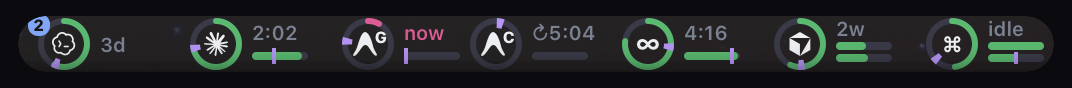
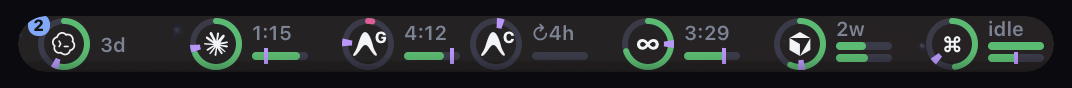
fix(sketchybar): ring review fixes for blocked, stale and docs
- Refill label uses the short form (↻14h) so it fits the 28 pt slot;
  an unreadable blocker reset still marks the label (↻?).
- Windows past the two-bar cap still block the shown bars.
- The missing-mtime sentinel never becomes a stale popup age.
- The refill note stays when an incident is present; fallback slot
  names read 'the Secondary window'.
- Docs: red low quota versus red error, error precedence over stale,
  shared warn colour, ring palette map; CHANGELOG as bullets.

diff --git a/crates/showy-quota-zellij-core/src/sketchybar_ring.rs b/crates/showy-quota-zellij-core/src/sketchybar_ring.rs
@@ -15,6 +15,7 @@
 use serde_json::Value;
 use std::collections::HashMap;
 
+use crate::cache::MISSING_AGE_SECONDS;
 use crate::codexbar::{
     is_errored, is_renderable, valid_provider_id, ProviderRecord, MAX_USAGE_JSON_BYTES,
 };
@@ -303,14 +304,16 @@ fn family_unit(
             .then_with(|| a.cmp(&b))
     });
     let ring_minutes = ring_index.and_then(|index| raws.get(index).and_then(|raw| raw.minutes));
-    let mut bars: Vec<RingWindow> = order
+    // Every shorter window, before the two-bar display cap: a window the
+    // strip cannot show (Antigravity can carry more) still blocks the ones
+    // it can.
+    let mut all_bars: Vec<RingWindow> = order
         .into_iter()
         .filter(|index| Some(*index) != ring_index)
         .map(|index| {
             let breakdown = raws[index].minutes == ring_minutes;
             assemble(&raws[index], breakdown, tick)
         })
-        .take(2)
         .collect();
     // A lone window draws the ring only; a missing window draws nothing.
     let ring = match ring_index.and_then(|index| raws.get(index)) {
@@ -332,53 +335,67 @@ fn family_unit(
     // shortest first) is empty. Breakdown parts neither block nor dim: they
     // are the ring's own window. Stale data never claims a blocked state.
     if !tick.stale {
-        for index in 0..bars.len() {
-            if bars[index].breakdown {
+        for index in 0..all_bars.len() {
+            if all_bars[index].breakdown {
                 continue;
             }
-            let blocked = ring_empty || bars[index + 1..].iter().any(blocks);
+            let blocked = ring_empty || all_bars[index + 1..].iter().any(blocks);
             if blocked {
-                bars[index].blocked = true;
-                bars[index].expected = None;
+                all_bars[index].blocked = true;
+                all_bars[index].expected = None;
             }
         }
     }
     // The label counts to the shortest window. When that window is blocked,
     // it counts to the latest refill among the windows that block it, marked
-    // with the refill glyph so the change of meaning is visible.
-    let shortest = bars.first().unwrap_or(&ring);
-    let blocker = if shortest.blocked {
-        std::iter::once(&ring)
+    // with the refill glyph so the change of meaning is visible. The refill
+    // uses the short form (`18h`, `6d`) so it fits the label slot; the popup
+    // keeps the exact time. A blocker whose reset does not parse still marks
+    // the label (`↻?`): falling back to the blocked window's own countdown
+    // would read as "usable then".
+    let shortest = all_bars.first().unwrap_or(&ring);
+    let refill: Option<(&RingWindow, Option<i64>)> = if shortest.blocked {
+        let blockers: Vec<&RingWindow> = std::iter::once(&ring)
             .filter(|_| ring_empty)
-            .chain(bars[1..].iter().filter(|bar| blocks(bar)))
+            .chain(all_bars[1..].iter().filter(|bar| blocks(bar)))
+            .collect();
+        blockers
+            .iter()
             .filter_map(|window| {
-                minutes_until(&window.reset, tick.now_epoch, tick.tz).map(|m| (m, window))
+                minutes_until(&window.reset, tick.now_epoch, tick.tz).map(|m| (*window, Some(m)))
             })
-            .max_by_key(|(minutes, _)| *minutes)
-            .map(|(_, window)| window)
+            .max_by_key(|(_, minutes)| *minutes)
+            .or_else(|| blockers.first().map(|window| (*window, None)))
     } else {
         None
     };
-    let counted = blocker.unwrap_or(shortest);
+    let (counted, countdown_text, label_minutes) = match refill {
+        Some((window, Some(minutes))) => (window, short_age(minutes * 60), Some(minutes)),
+        Some((window, None)) => (window, "?".to_owned(), None),
+        None => {
+            let (text, minutes) = countdown(shortest, tick.now_epoch, tick.tz);
+            (shortest, text, minutes)
+        }
+    };
     let shortest_title = counted.title.clone();
     let shortest_remaining = counted.remaining;
-    let (countdown_text, label_minutes) = countdown(counted, tick.now_epoch, tick.tz);
-    let refill = if blocker.is_some() { REFILL_GLYPH } else { "" };
+    let refill_glyph = if refill.is_some() { REFILL_GLYPH } else { "" };
     let label = if tick.stale_mark {
         format!("{}{countdown_text}", config.stale_glyph)
     } else if config.severity_glyphs && !tick.stale {
         format!(
-            "{}{refill}{countdown_text}",
+            "{}{refill_glyph}{countdown_text}",
             config.severity(shortest_remaining as i32).marker()
         )
     } else {
-        format!("{refill}{countdown_text}")
+        format!("{refill_glyph}{countdown_text}")
     };
+    let bars: Vec<RingWindow> = all_bars.iter().take(2).cloned().collect();
     let note = unit_note(
         &countdown_text,
         &shortest_title,
         ring_empty,
-        blocker.is_some(),
+        refill.is_some(),
         bars.iter().any(|bar| bar.blocked),
         bars.is_empty(),
     );
@@ -450,7 +467,8 @@ pub fn apply_stale_ages(
         } else {
             whole_age
         };
-        let Some(age) = age.filter(|age| *age >= 0) else {
+        // The sentinel means "no readable mtime": there is no age to report.
+        let Some(age) = age.filter(|age| (0..MISSING_AGE_SECONDS).contains(age)) else {
             continue;
         };
         let ago = friendly_duration(age / 60);
@@ -552,8 +570,15 @@ fn unit_note(
     // "empty ring" clause rather than joining it.
     let mut parts: Vec<String> = Vec::new();
     if refill {
+        // A fallback slot name (`Secondary`) reads like an account without
+        // the word "window".
+        let window = if matches!(counted_title, "Primary" | "Secondary" | "Tertiary") {
+            format!("the {counted_title} window")
+        } else {
+            counted_title.to_owned()
+        };
         parts.push(format!(
-            "{REFILL_GLYPH}{countdown} = until {counted_title} refills"
+            "{REFILL_GLYPH}{countdown} = until {window} refills"
         ));
     } else if ring_empty && !has_bars {
         parts.push(format!(
@@ -1046,11 +1071,11 @@ mod tests {
         // The empty pool blocks the 5h window: the label counts to the
         // refill, marked so the change of meaning shows.
         assert!(units[1].bars[0].blocked);
-        assert_eq!(units[1].label, "↻18:05");
+        assert_eq!(units[1].label, "↻18h");
         assert!(
             units[1]
                 .note
-                .contains("↻18:05 = until Claude/GPT weekly refills"),
+                .contains("↻18h = until Claude/GPT weekly refills"),
             "{}",
             units[1].note
         );
@@ -1077,7 +1102,7 @@ mod tests {
         assert!(!unit.bars[1].blocked, "the empty bar itself is not blocked");
         assert!(unit.bars[1].expected.is_some());
         // Counts to the 7d refill, not the 5h reset.
-        assert_eq!(unit.label, format!("↻{}", format_countdown(8727)));
+        assert_eq!(unit.label, "↻6d");
         assert!(unit.note.contains("dim bar = blocked"), "{}", unit.note);
     }
 
@@ -1087,7 +1112,53 @@ mod tests {
         let units = units(&commandcode(10.0, 100.0, 100.0));
         let unit = &units[0];
         assert!(unit.bars[0].blocked && unit.bars[1].blocked);
-        assert_eq!(unit.label, format!("↻{}", format_countdown(31170)));
+        assert_eq!(unit.label, "↻21d");
+    }
+
+    #[test]
+    fn a_blocker_with_no_parsable_reset_still_marks_the_label() {
+        // The 7d bar is empty but its reset is unreadable: the 5h countdown
+        // would say "usable in 2:40", which is false.
+        let payload = format!(
+            r#"[{{"provider":"commandcode","usage":{{
+                "primary":{{"usedPercent":10.0,"resetsAt":"{}","windowMinutes":300}},
+                "secondary":{{"usedPercent":100.0,"resetsAt":"soon","windowMinutes":10080}},
+                "tertiary":{{"usedPercent":40.0,"resetsAt":"{}","windowMinutes":43200}}}}}}]"#,
+            reset_at(160),
+            reset_at(31170)
+        );
+        let units = units(&payload);
+        assert!(units[0].bars[0].blocked);
+        assert_eq!(units[0].label, "↻?");
+    }
+
+    #[test]
+    fn a_window_past_the_two_bar_cap_still_blocks_the_shown_bars() {
+        // Gemini pool: 7d ring, then 5h, 1d, 2d bars; only 5h and 1d show,
+        // and the hidden 2d window is empty.
+        let payload = format!(
+            r#"[{{"provider":"antigravity","usage":{{
+                "primary":{{"usedPercent":10.0,"resetsAt":"{a}","windowMinutes":300}},
+                "extraRateWindows":[
+                    {{"id":"gemini-5h","title":"Gemini 5h","window":{{"usedPercent":10.0,"resetsAt":"{a}","windowMinutes":300}}}},
+                    {{"id":"gemini-1d","title":"Gemini 1d","window":{{"usedPercent":20.0,"resetsAt":"{b}","windowMinutes":1440}}}},
+                    {{"id":"gemini-2d","title":"Gemini 2d","window":{{"usedPercent":100.0,"resetsAt":"{c}","windowMinutes":2880}}}},
+                    {{"id":"gemini-weekly","title":"Gemini weekly","window":{{"usedPercent":30.0,"resetsAt":"{d}","windowMinutes":10080}}}}
+                ]}}}}]"#,
+            a = reset_at(160),
+            b = reset_at(900),
+            c = reset_at(2000),
+            d = reset_at(8000)
+        );
+        let units = units(&payload);
+        let gemini = &units[0];
+        assert_eq!(gemini.bars.len(), 2);
+        assert!(
+            gemini.bars.iter().all(|bar| bar.blocked),
+            "{:?}",
+            gemini.bars
+        );
+        assert_eq!(gemini.label, format!("↻{}", short_age(2000 * 60)));
     }
 
     #[test]
@@ -1159,6 +1230,20 @@ mod tests {
         let mut fresh = units(&payload);
         apply_stale_ages(&mut fresh, Some(30), &ages, NOW, Some(0));
         assert_eq!(fresh[0].stale_note, None, "fresh units get no stale row");
+
+        // No readable cache mtime: the sentinel age is not a real age.
+        let mut whole = ring_units(
+            payload.as_bytes(),
+            &utc_config(),
+            NOW,
+            SketchybarOptions {
+                stale: true,
+                ..options()
+            },
+        )
+        .expect("units");
+        apply_stale_ages(&mut whole, Some(MISSING_AGE_SECONDS), &[], NOW, Some(0));
+        assert_eq!(whole[0].stale_note, None);
     }
 
     #[test]

diff --git a/crates/showy-quota-zellij-core/src/sketchybar_frame.rs b/crates/showy-quota-zellij-core/src/sketchybar_frame.rs
@@ -25,7 +25,9 @@ use crate::cache::MISSING_AGE_SECONDS;
 use crate::config::RenderConfig;
 use crate::palette::scale_hex;
 use crate::sketchybar::{RowLane, SketchybarRow, SketchybarRows, LANE_COUNT};
-use crate::sketchybar_ring::{friendly_length, short_age, RingIncident, RingUnit, RingWindow};
+use crate::sketchybar_ring::{
+    friendly_length, short_age, RingIncident, RingUnit, RingWindow, REFILL_GLYPH,
+};
 
 /// Bump when icon rendering semantics change so stale cached PNGs are replaced.
 pub const ICON_CACHE_VERSION: &str = "5";
@@ -1251,9 +1253,12 @@ fn ring_popup_args(
         set(item, props);
     }
 
+    // An incident note explains the logo tint; a refill note explains the
+    // `↻` label. When both apply the refill note wins: the label is on the
+    // strip, and the incident already has its own alert row.
     let note = match unit.incident.as_ref() {
-        Some(incident) => incident_note(incident),
-        None => unit.note.clone(),
+        Some(incident) if !unit.label.contains(REFILL_GLYPH) => incident_note(incident),
+        _ => unit.note.clone(),
     };
     if note.is_empty() {
         set(format!("{prefix}.pop_note"), vec!["drawing=off".into()]);
@@ -2249,12 +2254,14 @@ mod tests {
 
     #[test]
     fn a_blocked_bar_dims_drops_its_knob_and_an_empty_bar_keeps_the_plain_track() {
-        let settings = settings(&RING_ENV);
         let frame = ring_frame(BLOCKED_BY_BAR, &RING_ENV, None);
         let args = &frame.args;
-        let dim = format!("slider.highlight_color={}", settings.ring_blocked_argb(90));
+        // 25be6a (good) at the 0.55 shade.
         let bar0 = props(args, "showy_quota.commandcode.bar0");
-        assert!(bar0.contains(&dim.as_str()), "{bar0:?}");
+        assert!(
+            bar0.contains(&"slider.highlight_color=0xff14683a"),
+            "{bar0:?}"
+        );
         assert!(
             !bar0.contains(&"slider.highlight_color=0xff25be6a"),
             "{bar0:?}"
@@ -2273,8 +2280,7 @@ mod tests {
         assert!(label[1].starts_with("label=↻"), "{label:?}");
         // The popup row of the blocked window dims its gauge and its %.
         let row1 = props(args, "showy_quota.commandcode.pop_row1");
-        let dim_badge = format!("label.badge.color={}", settings.ring_blocked_argb(90));
-        assert!(row1.contains(&dim_badge.as_str()), "{row1:?}");
+        assert!(row1.contains(&"label.badge.color=0xff14683a"), "{row1:?}");
     }
 
     fn stale_ring_frame(stale: bool, stale_providers: &[String]) -> Frame {

diff --git a/docs/sketchybar.md b/docs/sketchybar.md
@@ -108,25 +108,49 @@ C = Claude + GPT); Codex banked resets badge the ring; errors keep the last
 known arc in grey. Switching the body re-declares the items cleanly, leaving
 no items of the other body behind.
 
-Each colour in ring mode has one meaning:
+Each look in ring mode has one meaning. Colour is never the only cue: the
+stale and refill states also add a glyph to the label, and the blocked state
+removes the pace knob.
 
 | Look | Meaning |
 |---|---|
-| Green, amber, or red arc or bar | % left, live |
+| Green, amber, or red arc or bar | % left, live; red here means low quota, not an error |
 | Arc or bar at the dim shade (colour × 0.55), no pace knob | Blocked: the ring or a longer bar is empty, so this shorter window cannot be used |
 | Plain track with no fill | Nothing left in that window (ring or bar) |
 | Grey arc or bar | Last known value, not live (stale data, or a provider error) |
+| Label `↻14h` | The shortest window is blocked; the time is until the blocking window refills |
 | Yellow label with the stale glyph (`⚠2w`) | This provider's own data is stale; the label keeps its countdown |
-| Yellow end mark with the age (`⚠ 25m`) | The whole cache is stale; the units stay grey with plain labels |
-| Red label and red logo | An error that needs action (`auth`, `net`) |
+| Yellow end mark with the age (`⚠ 25m`) | The whole cache is stale; units without an error stay grey with plain labels |
+| Red label and red logo | A provider error that needs action (`auth`, `net`) |
 
 The countdown label normally counts to the shortest window's reset. When that
-window is blocked, the label counts to the refill of the window that blocks it
-(the latest one, when several do) and starts with `↻` (`↻14h`), so the change
-of meaning shows on the strip. Stale data never claims a blocked state: a stale
-label keeps the plain countdown. A stale unit's popup starts with a yellow row
-that gives the data age and the last refresh clock. Rows mode keeps its own
-semantics: there the dim shade marks a long window.
+window is blocked, the label counts to the refill of the window that blocks
+it, in a short form (`↻14h`, `↻6d`). When several windows block it, the label
+uses the latest refill. When the blocking window has no readable reset, the
+label is `↻?`. The popup shows the exact times.
+
+Stale data never shows a blocked state, and a stale label keeps its plain
+countdown. A stale unit's popup starts with a yellow row that gives the data
+age and the last refresh time. An error takes precedence over stale data: an
+errored provider keeps its grey last-known arc, its red logo and kind label,
+and its error row in the popup.
+
+The stale label and the amber arcs share `SHOWY_QUOTA_PALETTE_PRIMARY_WARN`.
+The glyph and the grey arcs tell the stale state apart. Rows mode keeps its own
+meaning for the dim shade: there it marks a long window.
+
+Ring colours come from these settings:
+
+| Setting | Used for |
+|---|---|
+| `SHOWY_QUOTA_PALETTE_PRIMARY_GOOD`, `_WARN`, `_BAD` | Live arcs and bars; `_WARN` also colours stale labels and the stale end mark |
+| `SHOWY_QUOTA_PALETTE_TRACK` | Empty tracks |
+| `SHOWY_QUOTA_PALETTE_STALE` | Stale arcs, bars, and labels |
+| `SHOWY_QUOTA_PALETTE_COUNTDOWN_WARN` | Error labels and logos |
+| `SHOWY_QUOTA_STALE_GLYPH` | The stale glyph in labels, the end mark, and the popup row |
+
+The blocked shade is always 0.55. `SHOWY_QUOTA_PALETTE_DIM_SCALE` and the
+`SHOWY_QUOTA_PALETTE_DIM_*` overrides apply to rows mode only.
 
 Ring mode needs the SketchyBar fork [github.com/enieuwy/SketchyBar](https://github.com/enieuwy/SketchyBar):
 the `ring` item ([upstream PR #817](https://github.com/FelixKratz/SketchyBar/pull/817))

diff --git a/CHANGELOG.md b/CHANGELOG.md
@@ -26,13 +26,14 @@ The format follows [Keep a Changelog](https://keepachangelog.com/en/1.1.0/).
   neither merged upstream yet; on stock SketchyBar the plugin logs once and
   falls back to rows. Switching bodies re-declares cleanly with no leftover
   items. See `docs/sketchybar.md` "Strip body: rows or ring".
-  Colours carry one meaning each: a bar blocked by an empty ring or longer
-  bar draws at the 0.55 dim shade with no pace knob, and the label then
-  counts to the blocking window's refill behind `↻`; an empty bar keeps the
-  plain track (no red tint), as an empty ring does; grey means last known,
-  not live; a provider whose own slice is stale keeps its countdown behind a
-  yellow stale glyph and its popup gives the age; a stale cache is one
-  yellow end mark with the age (`⚠ 25m`); red stays for errors.
+  Ring looks carry one meaning each (full table in the doc):
+  - A bar blocked by an empty ring or longer bar dims to 0.55 and loses its
+    pace knob. The label then counts to the refill in short form (`↻14h`).
+  - An empty bar keeps the plain track, as an empty ring does.
+  - Grey means last known, not live.
+  - A stale provider keeps its countdown behind a yellow glyph (`⚠2w`); its
+    popup gives the age. A stale cache is one yellow end mark (`⚠ 25m`).
+  - Red arcs and bars mean low quota; a red logo and label mean an error.
 - `showy-quota-fetch` keeps a provider's last-known `usage` beside a fresh
   error-only record (with its original `providerMeta` time) instead of wiping
   it; a fresh success drops the preserved slice as before.
